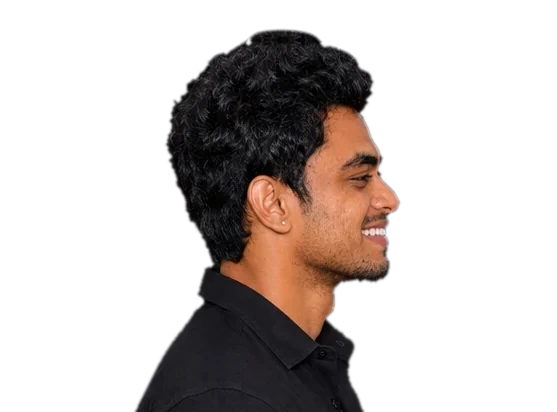
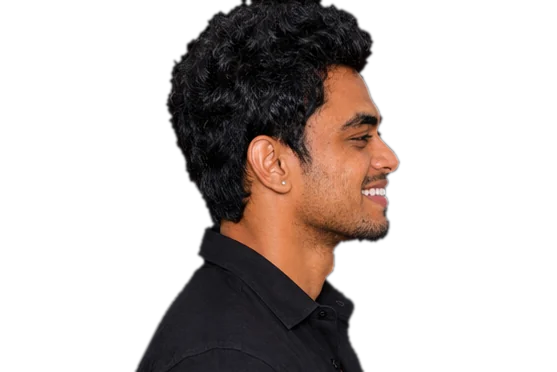
Remove the invented hair tops and the grey haze on the portrait
- Restore the original pose photos: the rebuilt hair caps looked like a
  hat or a bun up close
- Light mode now softens only the bottom 12% of the portrait; fading
  the sides and shoulders left a grey haze over the black shirt
- Portrait box is 240x160 (was 340x228)

The flat cut across the top of the hair on six poses comes from the
photos themselves; uncropped originals are needed to fix it properly.

Claude-Session: https://claude.ai/code/session_01QvPSy9MqdNzqBGSTSEWLuU

diff --git a/app/globals.css b/app/globals.css
@@ -23,10 +23,10 @@ html { scroll-behavior: smooth; }
 
 
 /* Interactive portrait: fluid width, one photo visible at a time, soft edges */
-.ip { position: relative; width: min(240px, 64vw); aspect-ratio: 15 / 11; perspective: 900px;
+.ip { position: relative; width: min(240px, 64vw); aspect-ratio: 3 / 2; perspective: 900px;
   -webkit-mask-image: radial-gradient(ellipse 62% 98% at 50% 28%, #000 52%, transparent 100%); mask-image: radial-gradient(ellipse 62% 98% at 50% 28%, #000 52%, transparent 100%); }
-/* On a light background the shoulders need a gentler fade, or the photo's straight bottom edge shows. */
-:root[data-theme="light"] .ip { -webkit-mask-image: radial-gradient(ellipse 62% 98% at 50% 42%, #000 36%, transparent 86%); mask-image: radial-gradient(ellipse 62% 98% at 50% 42%, #000 36%, transparent 86%); }
+/* On light, only the very bottom edge softens; fading the sides and shoulders as well left a grey haze over the shirt. */
+:root[data-theme="light"] .ip { -webkit-mask-image: linear-gradient(to bottom, #000 88%, transparent 100%); mask-image: linear-gradient(to bottom, #000 88%, transparent 100%); }
 .ip-stack { position: absolute; inset: 0; will-change: transform; }
 .ip-img { position: absolute; inset: 0; width: 100%; height: 100%; display: block; user-select: none; pointer-events: none; }
 
